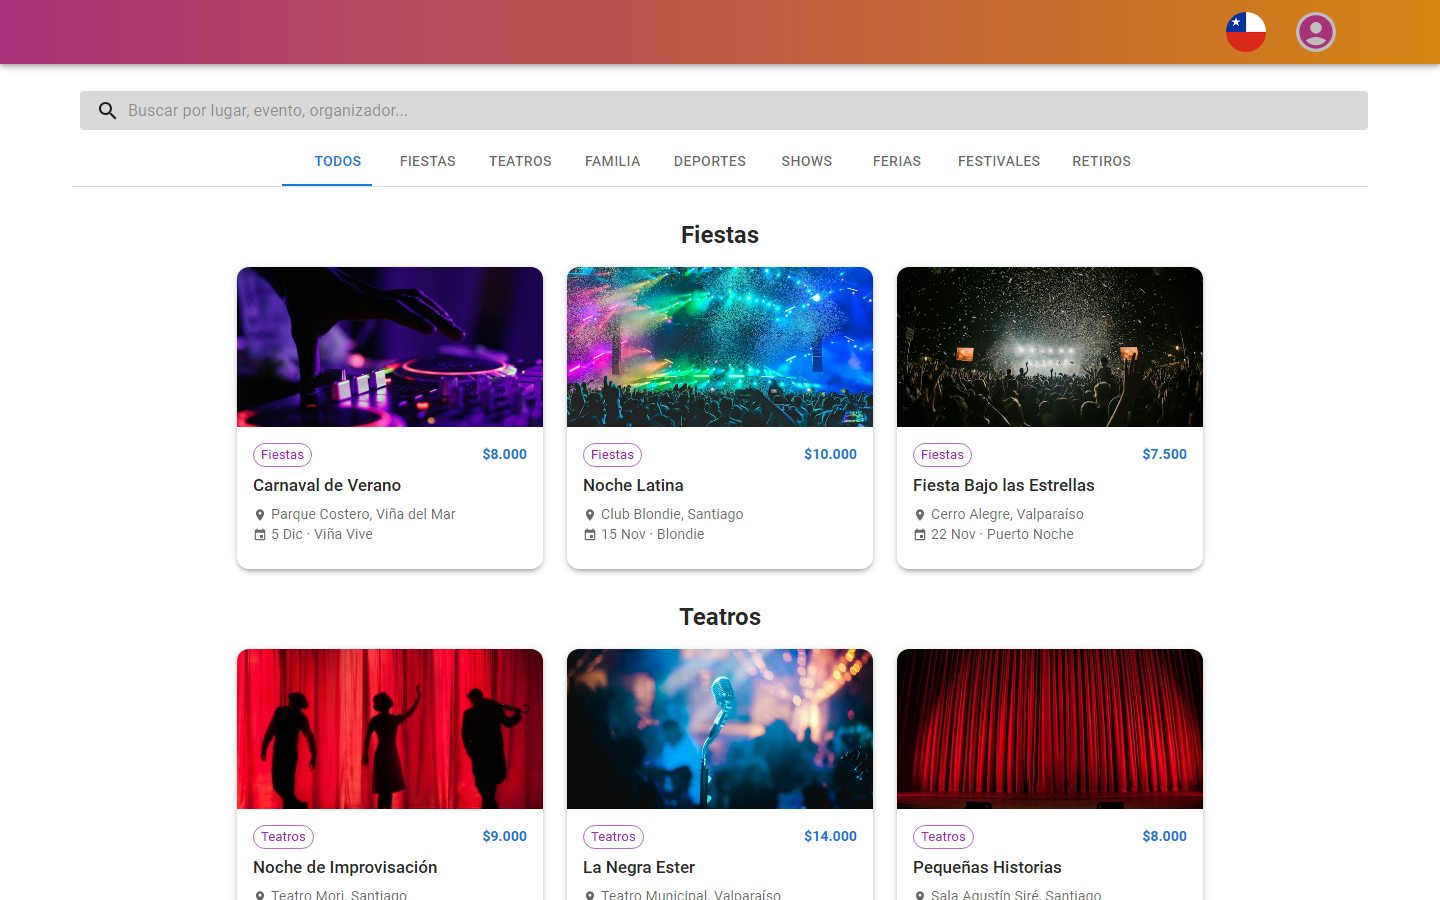
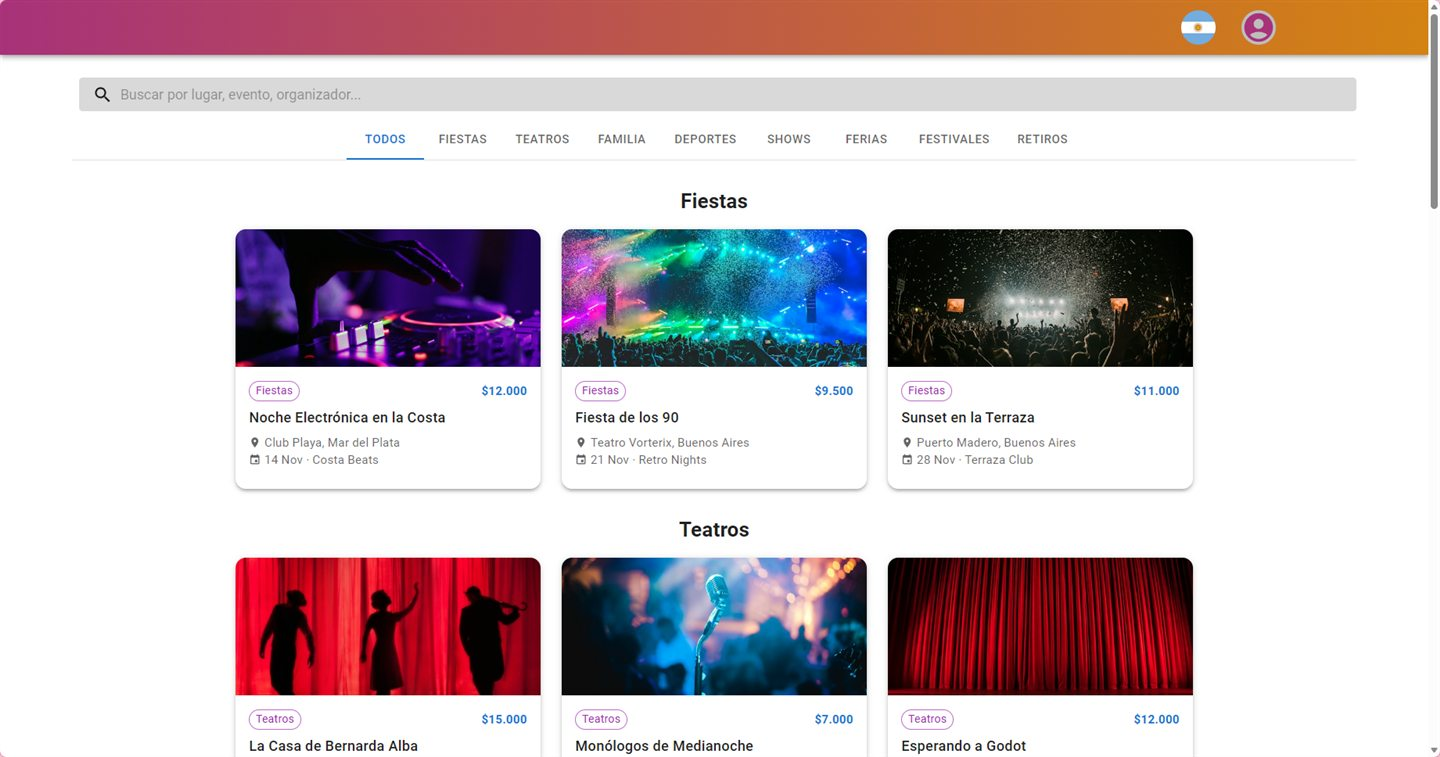
README: the two captures (events home, sign in)
Original prompt
"for custom web login system I just took two photos with ShareX, put them in the github readme and in the kazin.dev/projects hover showcase"

diff --git a/README.md b/README.md
@@ -6,6 +6,8 @@ Made in 2024 by [Elias Lujan (Kazin)](https://kazin.dev) without AI until the fi
 
 [![Home](docs/screenshots/home-1440.jpg)](https://kazin.dev/projects/custom-web-login-system/)
 
+[![Sign in](docs/screenshots/signin-1440.jpg)](https://kazin.dev/projects/custom-web-login-system/signin)
+
 ## What a visitor meets
 
 - **Register and sign in** with email and password; server-side validation of the fields and of the email format.
